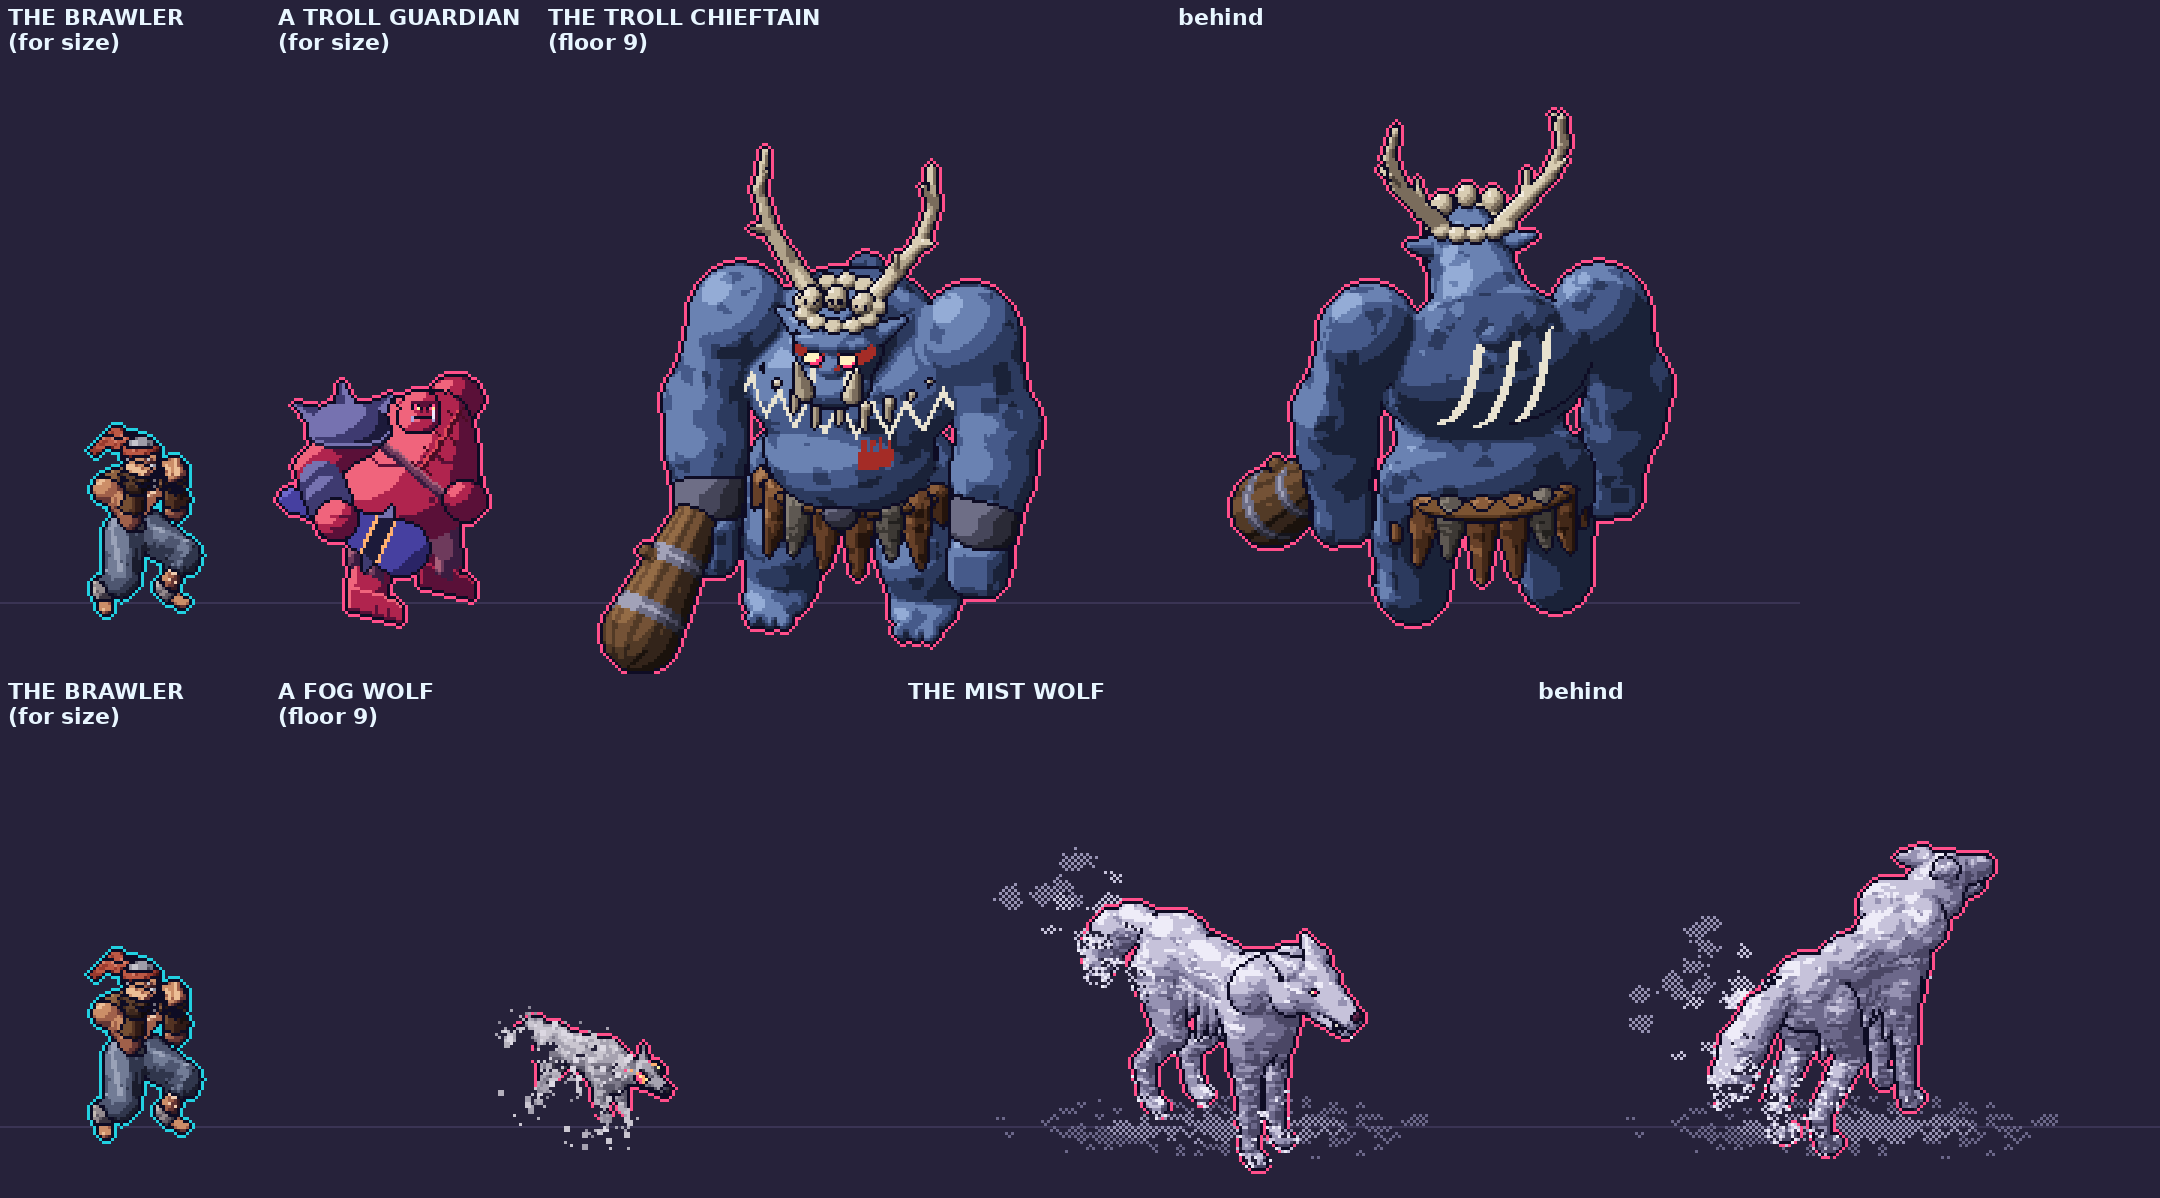
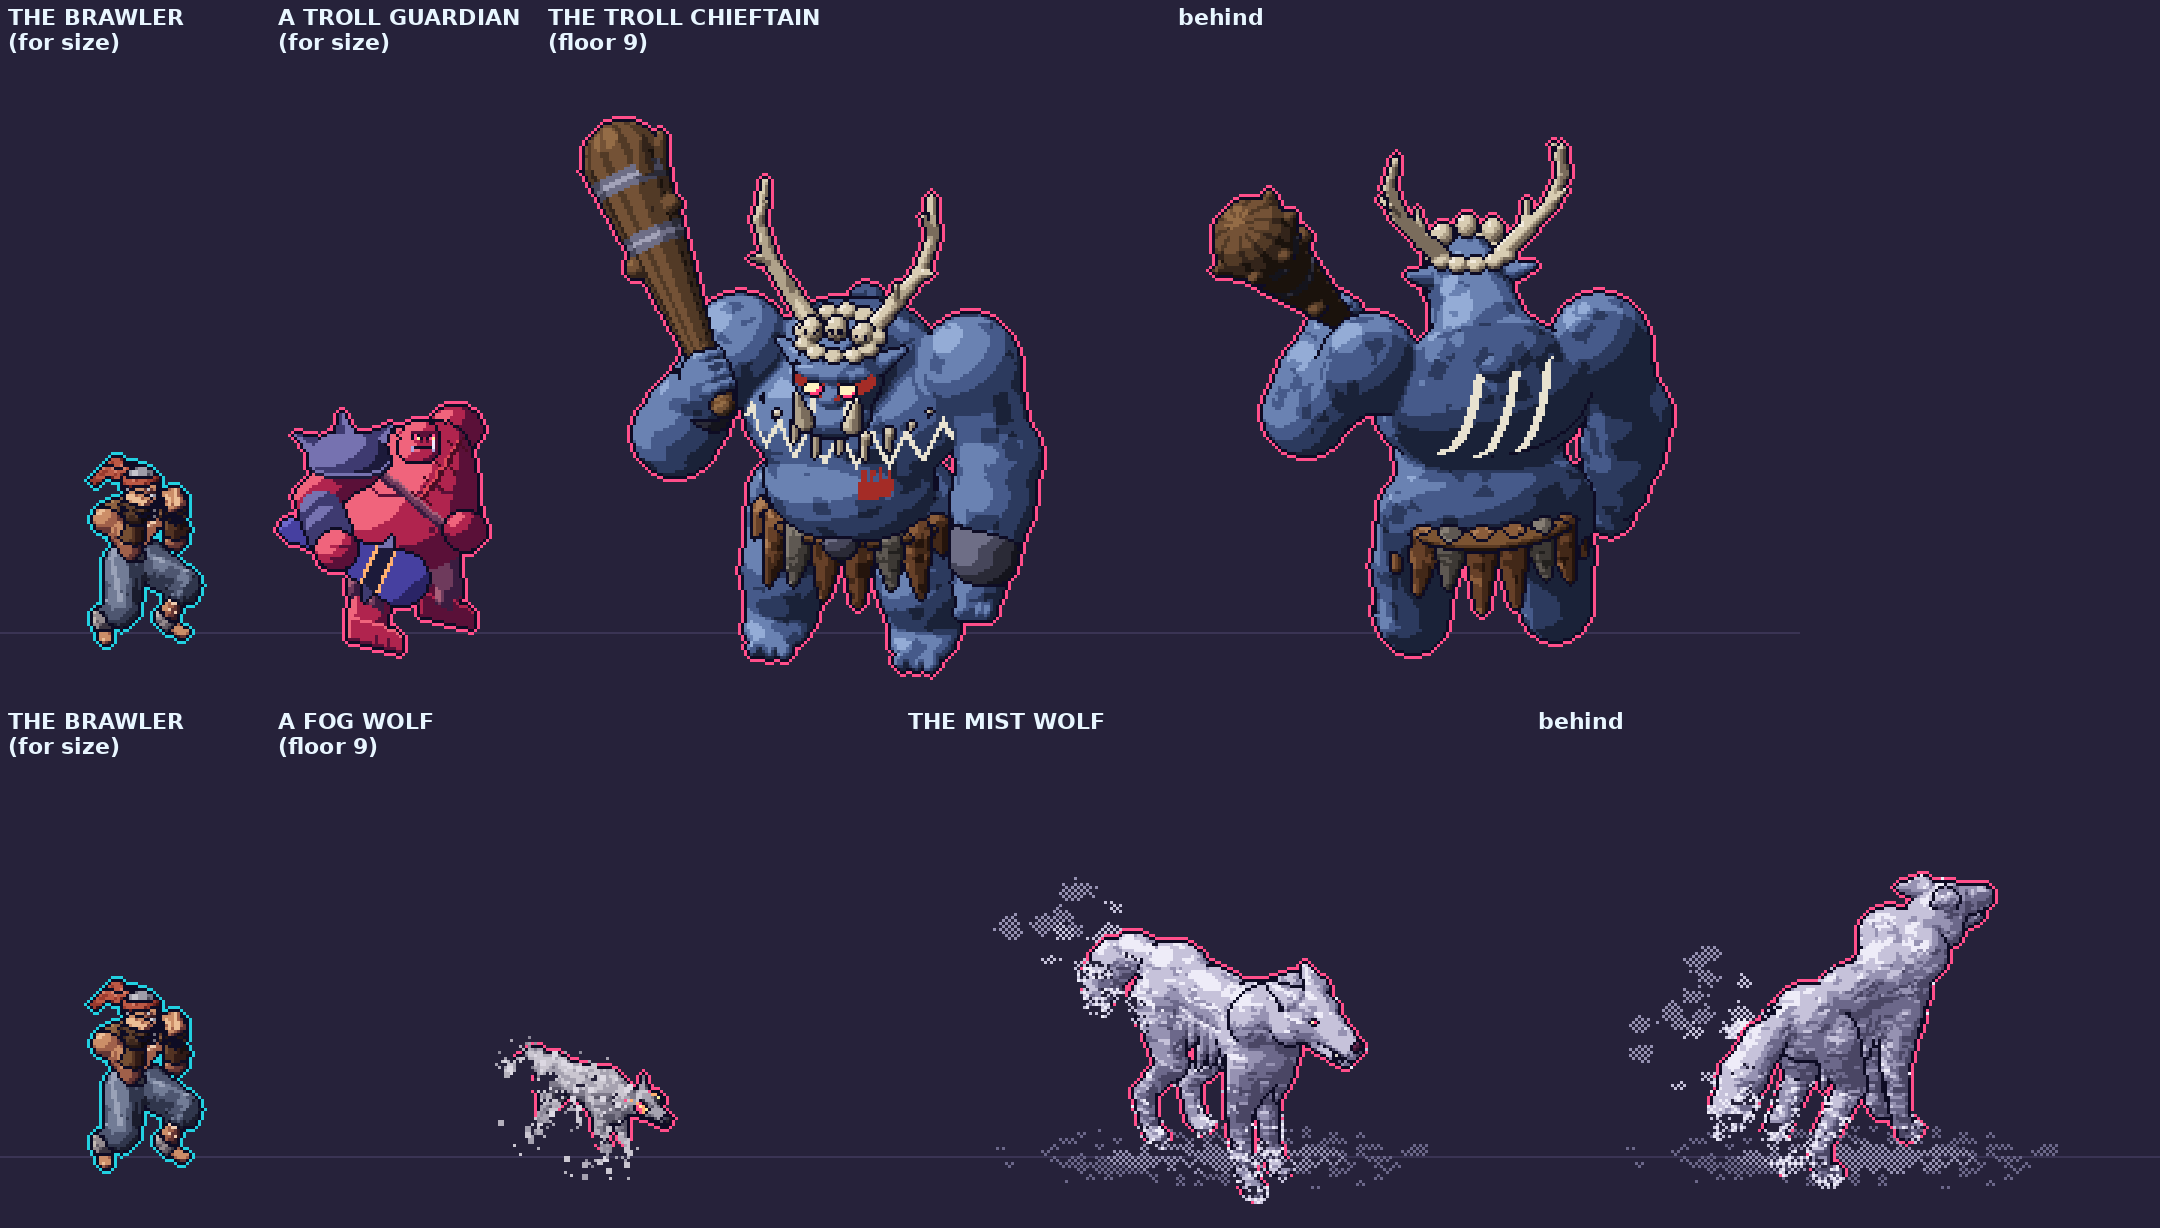
Floor 9's troll chieftain: his club over his shoulder, his fist round its handle (his word: the club looked wrong in his hand)
Claude-Session: https://claude.ai/code/session_01JYSqoUM1GZ2wuWLZA1eY4f

diff --git a/src/dev/sculpt_f9_bosses.ts b/src/dev/sculpt_f9_bosses.ts
@@ -23,7 +23,7 @@ import type { Ramp } from '../art/kit';
 import { INK } from '../art/kit';
 import { ENEMY_RIM } from '../art/mkit';
 import type { GameView } from '../art/skin';
-import { add, mul, norm } from '../art/skeleton';
+import { add, cross, mul, norm, sub } from '../art/skeleton';
 import type { V3 } from '../art/skeleton';
 import { Sculpt, draw, onCone } from './sculpt';
 import type { Cone, Drawn } from './sculpt';
@@ -145,6 +145,11 @@ export function sculptChief9(view: GameView, breath = 0, yaw = -10): Drawn {
   const bark = sc.mat({
     ramp: BARK,
     paint: (h) => {
+      if (h.prim.k === 'cone' && h.prim.tag === 'handle') {
+        // (its handle worn smooth and bound in a strip of leather, wound round it)
+        const { t, around } = onCone(h.prim as Cone, h.p, U);
+        return Math.floor((t * 8 + around / (Math.PI * 2)) * 2) % 2 === 0 ? shadeOf(LEATHER, h.tone) : shadeOf(BARK, h.tone + 1);
+      }
       if (h.prim.k !== 'cone' || h.prim.tag !== 'trunk') return null;
       const { t, around } = onCone(h.prim as Cone, h.p, U);
       // (two bands of iron round it; its bark ridged along it)
@@ -173,21 +178,25 @@ export function sculptChief9(view: GameView, breath = 0, yaw = -10): Drawn {
   sc.ell(hide, 'body', P(-6, 0, 72 + b), X(16, 25, 15), 3.4);
   // (his hump: the top of his back thrust up behind his head)
   sc.ell(hide, 'body', P(-4, 0, 82 + b), X(13, 18, 9), 3.0);
-  // HIS SHOULDERS, boulders; his arms long, down past his knees
+  // HIS SHOULDERS, boulders; his left arm long, hanging down past his knee; his right raised, its fist before his shoulder, the
+  // club over it
+  const CLUB_FIST = P(20, -33, 82 + b);
   for (const s of [1, -1]) {
     const piece = s > 0 ? 'armL' : 'armR';
     sc.ell(hide, piece, P(0, s * 29, 80 + b), X(13, 12, 12), 2.8);
-    const elbow = P(4, s * 37, 56 + b);
+    const elbow = s > 0 ? P(4, s * 37, 56 + b) : P(13, -43, 60 + b);
     sc.cone(hide, piece, P(1, s * 31, 78 + b), elbow, 10, 8.5, 2.6);
-    const wrist = P(12, s * 35, 32);
+    const wrist = s > 0 ? P(12, s * 35, 32) : add(CLUB_FIST, P(-1.5, -2, -6));
     sc.cone(hide, piece, elbow, wrist, 10.5, 8, 2.6);
     // (his forearm thicker than his upper arm: the swell of it)
     sc.ell(hide, piece, add(mul(elbow, 0.55), mul(wrist, 0.45)), X(10, 10, 11), 2.0);
   }
-  // HIS FISTS: like anvils; his right round the club's handle, his left hanging, half shut; IRON CUFFS round his wrists
-  sc.box(hide, 'fistL', P(14, 34, 24), X(8, 7, 8), 4.2, 1.6, { tag: 'fist' });
-  sc.box(hide, 'fistR', P(14, -34, 24), X(8.5, 7, 8.5), 4.2, 1.6, { tag: 'fist' });
-  for (const s of [1, -1]) sc.cone(iron, s > 0 ? 'cuffL' : 'cuffR', P(11.6, s * 35, 36.5), P(12.6, s * 34.8, 33), 8.6, 8.5, 0.4);
+  // HIS LEFT FIST: hanging, half shut, its knuckles a ridge across it, its thumb along its side
+  sc.ell(hide, 'fistL', P(14, 34, 25), X(6.5, 6, 7.5), 2.0, { tag: 'fist' });
+  for (let k = 0; k < 4; k++) sc.ell(hide, 'fistL', P(19.5, 37.5 - k * 2.4, 21 - k * 0.3), X(2.4, 1.6, 2.6), 1.0);
+  sc.cone(hide, 'fistL', P(17, 30, 27), P(20.5, 31.5, 22), 2.4, 1.8, 1.0);
+  sc.cone(iron, 'cuffL', P(11.6, 35, 36.5), P(12.6, 34.8, 33), 8.6, 8.5, 0.4);
+  sc.cone(iron, 'cuffR', add(CLUB_FIST, P(-3.6, -4.3, -13)), add(CLUB_FIST, P(-2.4, -3, -9)), 8.4, 8.3, 0.4);
   // HIS HEAD: thrust forward and low between his shoulders; a heavy brow, an underbite, two tusks, little ears
   const HF = 6;
   sc.cone(hide, 'body', P(6, 0, 82 + b), P(15 + HF, 0, 85 + b), 12, 10, 3.0);
@@ -227,13 +236,38 @@ export function sculptChief9(view: GameView, breath = 0, yaw = -10): Drawn {
     for (const [j, df, dl, du] of [[1, 3, 1, 7], [2, -4, 3, 6], [3, 3, -2, 7], [2, 5, 4, 3]] as const) sc.cone(bone, `antler${s > 0 ? 'L' : 'R'}`, pts[j], add(pts[j], P(df, s * dl, du)), 1.4, 0.4, 0.5);
   }
   for (const [l, u] of [[-6.4, 100.5], [0, 102], [6.4, 100.5]] as const) sc.ell(bone, 'crown', P(25 + (l === 0 ? 1 : 0), l, u + b), X(2.8, 2.6, 3), 0.4, { tag: 'skull' });
-  // HIS CLUB: a tree's trunk, its handle in his right fist, its great head leant on the floor before him
-  const top = P(6, -31, 42);
-  const end = P(40, -47, 9);
-  sc.cone(bark, 'club', top, end, 3.6, 9.5, 0.8, { tag: 'trunk' });
-  const along = (k: number): V3 => add(mul(top, 1 - k), mul(end, k));
-  sc.cone(bark, 'club', along(0.66), add(along(0.66), P(2, -6, 7)), 2.6, 1.6, 0.8);
-  sc.cone(bark, 'club', along(0.84), add(along(0.84), P(-4, 6, 6)), 2.8, 1.8, 0.8);
+  // HIS CLUB: A TREE'S TRUNK over his right shoulder, its handle in his fist before the shoulder, its great head behind him; its
+  // handle's end a knob under his fist; knots on it, two bands of iron round its head, its end flaring to root stubs
+  const grip = CLUB_FIST;
+  const end = P(-9, -60, 124 + b);
+  const A = norm(sub(end, grip));
+  const at = (d: number): V3 => add(grip, mul(A, d));
+  const len = Math.hypot(...sub(end, grip));
+  sc.cone(bark, 'club', at(-8), at(6), 2.9, 3.2, 0.6, { tag: 'handle' });
+  sc.ell(bark, 'club', at(-8.5), X(2.6, 2.6, 2.6), 0.6, { tag: 'handle' });
+  sc.cone(bark, 'club', at(5), end, 3.3, 10, 1.0, { tag: 'trunk' });
+  for (const [d, k, r] of [[0.38, 0, 2.2], [0.55, 1, 2.6], [0.74, 2, 2.4]] as const) {
+    const ang = k * 2.1 + 0.6;
+    const side = norm(cross(A, [Math.cos(ang), Math.sin(ang), 0.4]));
+    sc.ell(bark, 'club', add(at(len * d), mul(side, 3.6 + d * 6.5)), X(r, r, r), 1.2, { tag: 'knot' });
+  }
+  // (its end flaring to root stubs)
+  for (let k = 0; k < 5; k++) {
+    const ang = (k / 5) * Math.PI * 2;
+    const side = norm(cross(A, [Math.cos(ang), Math.sin(ang), 0.7]));
+    sc.cone(bark, 'club', add(at(len - 4), mul(side, 7)), add(add(at(len + 1.5), mul(side, 11.5)), mul(A, 0.5)), 3.2, 1.2, 1.2, { tag: 'root' });
+  }
+  // HIS RIGHT FIST round the handle: the back of his hand outside it, his knuckles a ridge over it, his fingers wrapped round it in
+  // front, his thumb across them
+  const out = norm(cross(A, [0, 0, 1]));
+  const fwd = norm(cross(out, A));
+  sc.ell(hide, 'fistR', add(grip, mul(out, -2.4)), [mul(A, 6), mul(out, 4.6), mul(fwd, 5.4)], 1.6, { tag: 'fist' });
+  for (let k = 0; k < 4; k++) {
+    const c = at(-4.2 + k * 2.7);
+    sc.ell(hide, 'fistR', add(add(c, mul(out, -3.6)), mul(fwd, 3.2)), X(1.9, 1.9, 1.9), 0.8);
+    sc.cone(hide, 'fistR', add(add(c, mul(out, -2.6)), mul(fwd, 4.2)), add(add(c, mul(out, 2.2)), mul(fwd, 3.6)), 1.5, 1.35, 0.6);
+  }
+  sc.cone(hide, 'fistR', add(at(-5), mul(out, -1)), add(add(at(0.5), mul(out, 2.4)), mul(fwd, 3.4)), 1.9, 1.5, 0.8);
   grow(sc, CK);
   return draw(sc, view, CHIEF9_CANVAS.ax, CHIEF9_CANVAS.ay, CHIEF9_CANVAS, undefined, ENEMY_RIM);
 }

diff --git a/docs/mockups/f9_side_bosses/README.md b/docs/mockups/f9_side_bosses/README.md
@@ -62,3 +62,8 @@ art/f9_lairs.ts draws their thirteen pieces (render/act1_pieces.ts takes them on
 - Pictured (pictures/f9_side_areas.png): the game's own pictures of both on floor 9 (seed 9), the bosses' standing pictures laid in
   at their spots (they are not in the game yet): tools/scenarios/f9_lairs.mjs (ON=1, WIDE=1.3, CANVAS_OUT), tools/f9_lairs_composite.ts
   and .py. The pieces alone: tools/f9_lairs_sheet.ts and .py.
+- His answer to the side areas: “It’s good but his club kinda looks like shit in his hand”. Read as: the areas are right; the
+  chieftain's club wrong where he holds it (a stub jutting at the eye, no hand seen round it). Drawn again: over his right shoulder,
+  his right arm raised, his fist before the shoulder wrapped round a leather-bound handle (knuckles, fingers, thumb), its knob below
+  the fist; the trunk long, knotted, two iron bands round its head, its end flaring to root stubs; seen at its length from in front
+  and behind. Pictured: pictures/f9_chief_club.png (and f9_bosses_look.png, f9_side_areas.png made again with it).
